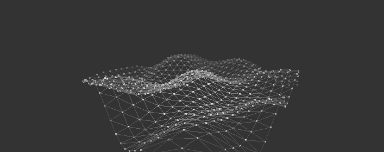
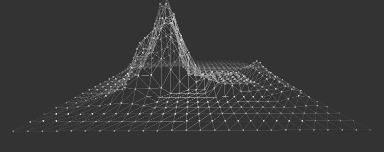
tweaked noise to mountainous

diff --git a/src/scripts/sketch.js b/src/scripts/sketch.js
@@ -6,6 +6,8 @@
 			camera = three.camera(),
 			renderer = three.renderer(),
 			simplex = new SimplexNoise(),
+			planeWidth = 10,
+			planeHeight = 10,
 			container,
 			model,
 			previousModel,
@@ -16,9 +18,9 @@
 
 			init = function(){
 				var subdivisions = 25,
-					geometry = new THREE.PlaneGeometry( 10, 10, subdivisions, subdivisions ),
+					geometry = new THREE.PlaneGeometry( planeWidth, planeHeight, subdivisions, subdivisions ),
 					material = new THREE.MeshPhongMaterial( { color: 0xffffff, wireframe: true, transparent: true, opacity:0.75} ),
-					pointGeometry = new THREE.PlaneBufferGeometry( 10, 10, subdivisions, subdivisions ),
+					pointGeometry = new THREE.PlaneBufferGeometry( planeWidth, planeHeight, subdivisions, subdivisions ),
 					pointMaterial = new THREE.PointCloudMaterial({color: 0xffffff, size: 3, sizeAttenuation: false, transparent: true, opacity:0.25}),
 					light = new THREE.PointLight( 0xffffff, 1, 15);
 
@@ -49,15 +51,31 @@
 			update = function(timestep){
 				var rotationalVelocity = 0.00005,
 					zpos,
-					pointIndex = 2;
+					pointIndex = 2,
+					xpos,
+					ypos,
+					noiseScale = 3.2;
 
 				mesh.geometry.vertices.forEach(function(vertex){
 					
 					tempVert.copy(vertex);
 					tempVert.add(position);
 					
-					zpos =  simplex.noise2D(tempVert.x * 0.2, tempVert.y * 0.2);
+					zpos = fbm(tempVert);
+
+					// here's the magic, the sin envelope pushes 
+					// the noise up in the middle and down at the side.
+					// First put the x and y position in the range of 0 - Math.PI
+					xpos = ( ( vertex.x + ( planeWidth * 0.5 ) ) / planeWidth ) * Math.PI;
+					ypos = ( ( vertex.y + ( planeHeight * 0.5 ) ) / planeHeight ) * Math.PI;
+					// then sin and scale it up for drama!
+					zpos *= Math.sin( xpos ) * noiseScale;
+					zpos *= Math.sin( ypos ) * noiseScale;
 					
+					if(zpos < 0 ){
+						zpos = 0;
+					}
+
 					vertex.z = zpos;
 					points.geometry.attributes.position.array[pointIndex] = zpos;
 					pointIndex += points.geometry.attributes.position.itemSize;
@@ -74,6 +92,24 @@
 
 				camera.lookAt(container.position);
 				
+			},
+
+			fbm = function(vertex){
+				var i,
+					octaves = 3,
+					total = 0,
+					gain = 0.5,
+					lacunarity = 2,
+					frequency = 0.1,
+					amplitude = gain;
+				
+				for (i = 0; i < octaves; ++i){
+					total += simplex.noise2D(vertex.x * frequency, vertex.y * frequency) * amplitude;         
+					frequency *= lacunarity;
+					amplitude *= gain;
+				}
+
+				return total;
 			},
 			
 			draw = function(interpolation){
